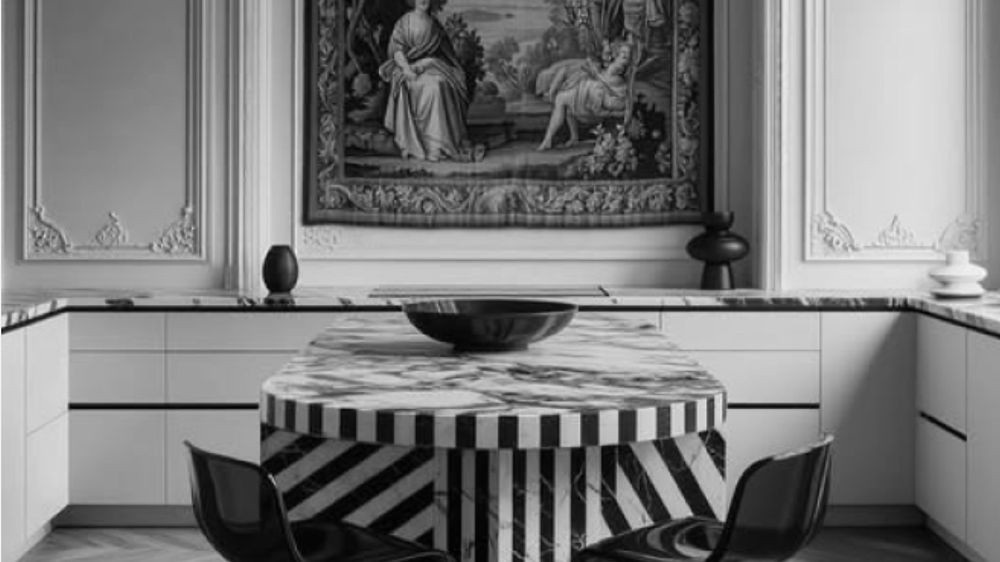
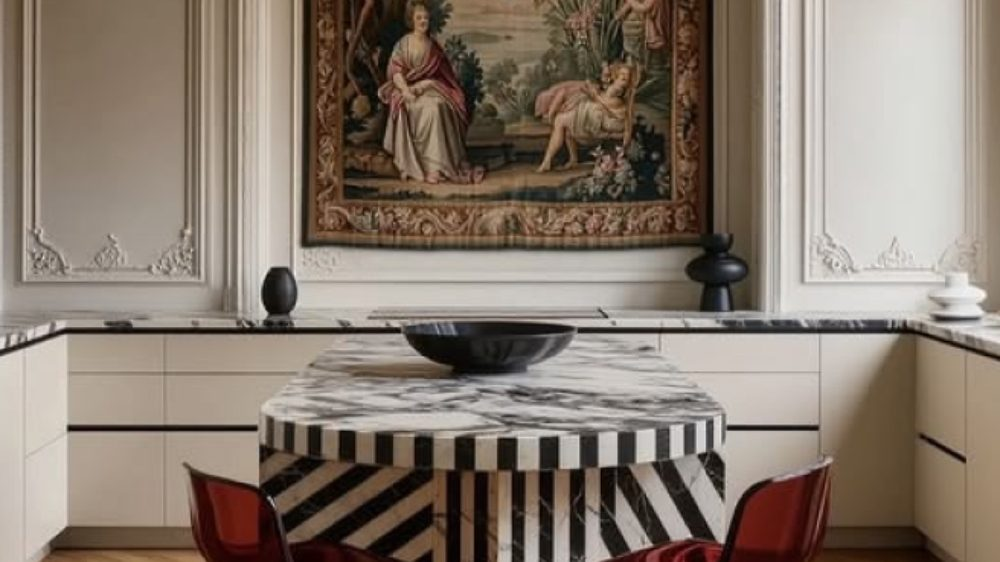
Fix language switch, swap the second essay, use colour covers
A stale "munister-lang: ua" left in localStorage by the previous version
of this site made setLang throw: the CV link was rewritten to
href="undefined" and the toggle stopped responding. Any stored value
other than "en" now normalises to Ukrainian.

Replaced the second EPRIS card with The Sacred Spring: A Portrait of the
Vienna Secession, and both covers now come from the original colour
image files rather than greyscale page captures.

diff --git a/index.html b/index.html
@@ -236,13 +236,13 @@ a.pub:hover .doi{color:var(--fg)}
 
     <!-- Article: The Heart of EPRIS -->
     <div class="cell">
-      <a class="card art" href="https://eprisjournal.com/article/the-heart-of-epris-maria-is-now-a-bachelor-of-architecture" target="_blank" rel="noopener">
+      <a class="card art" href="https://eprisjournal.com/article/the-sacred-spring-a-portrait-of-the-vienna-secession" target="_blank" rel="noopener">
         <span class="arrow">↗</span>
-        <div class="cover"><img src="images/works/article-heart.jpg" alt="The Heart of EPRIS" loading="lazy"></div>
+        <div class="cover"><img src="images/works/article-secession.jpg" alt="The Sacred Spring: A Portrait of the Vienna Secession" loading="lazy"></div>
         <div class="body">
-          <div class="kicker" data-i18n="artK2">Редакційна колонка · EPRIS Journal</div>
-          <h3>The Heart of EPRIS: Maria Is Now a Bachelor of Architecture</h3>
-          <div class="row"><span data-i18n="artM2">Архітектура · липень 2026</span><span class="go" data-i18n="read2">Читати ↗</span></div>
+          <div class="kicker" data-i18n="artK2">Есей · EPRIS Journal</div>
+          <h3>The Sacred Spring: A Portrait of the Vienna Secession</h3>
+          <div class="row"><span data-i18n="artM2">Відень · сецесія · 1897</span><span class="go" data-i18n="read2">Читати ↗</span></div>
         </div>
       </a>
     </div>
@@ -441,8 +441,8 @@ var EN = {
   memD: "French associations for the preservation and promotion of cultural heritage.",
   artK1: "Essay · EPRIS Journal",
   artM1: "Restoration · heritage · urban memory",
-  artK2: "Editorial · EPRIS Journal",
-  artM2: "Architecture · July 2026",
+  artK2: "Essay · EPRIS Journal",
+  artM2: "Vienna · Secession · 1897",
   read: "Read ↗", read2: "Read ↗",
   selected: "Digital products",
   armbankD: "Banking and messaging in one system: encrypted conversations, calls, statements, admin panel",
@@ -489,7 +489,7 @@ var WORDS = {
 
 var SCHOLAR = null;
 
-function lang(){ return document.documentElement.lang === 'en' ? 'en' : 'uk'; }
+function lang(){ return document.documentElement.lang.toLowerCase() === 'en' ? 'en' : 'uk'; }
 
 function renderLive(){
   if (!SCHOLAR) return;
@@ -523,7 +523,12 @@ function renderBars(){
   }).join('');
 }
 
-function setLang(l){
+// The previous version of this site stored other values (e.g. "ua") under the
+// same key, so anything that is not exactly "en" falls back to Ukrainian.
+function normLang(l){ return String(l).toLowerCase() === 'en' ? 'en' : 'uk'; }
+
+function setLang(raw){
+  var l = normLang(raw);
   var dict = l === 'en' ? EN : UK;
   document.querySelectorAll('[data-i18n]').forEach(function(el){
     var v = dict[el.dataset.i18n];
@@ -542,7 +547,10 @@ function setLang(l){
 
 var saved = null;
 try { saved = localStorage.getItem('munister-lang'); } catch(e){}
-if (!saved) saved = (navigator.language || '').toLowerCase().indexOf('uk') === 0 ? 'uk' : 'en';
+if (saved !== 'uk' && saved !== 'en') {
+  var nav = (navigator.language || '').toLowerCase();
+  saved = (nav.indexOf('uk') === 0 || nav.indexOf('ru') === 0) ? 'uk' : 'en';
+}
 setLang(saved);
 
 document.getElementById('langBtn').addEventListener('click', function(){
